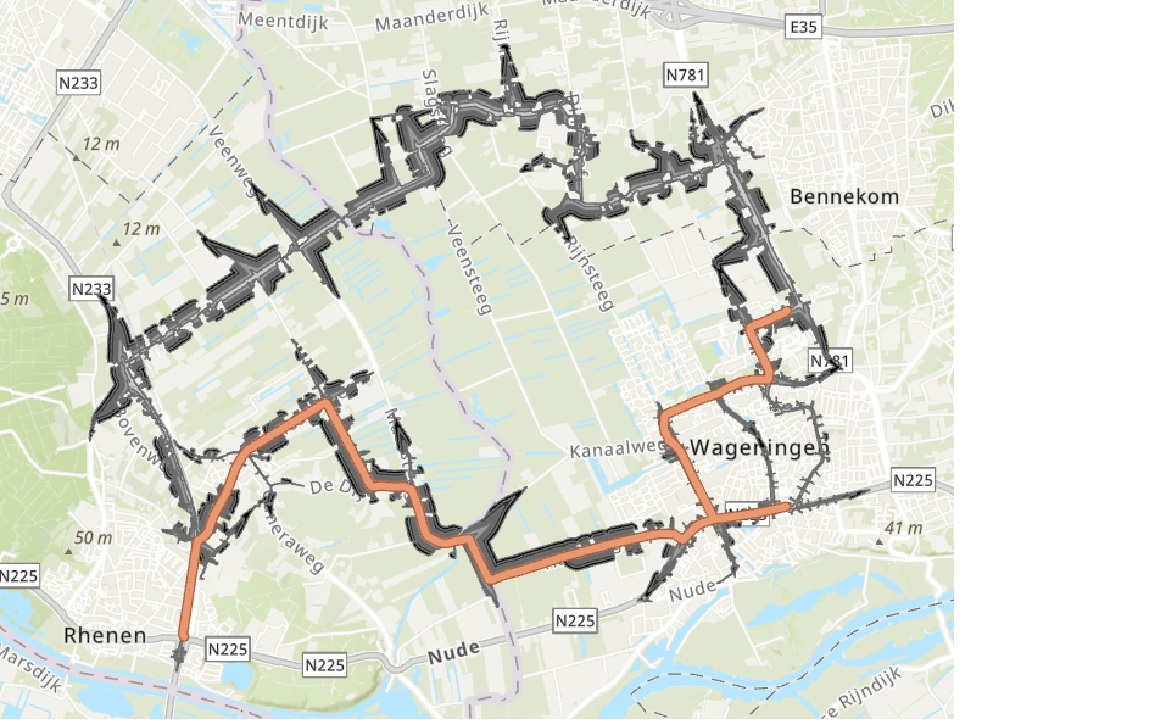
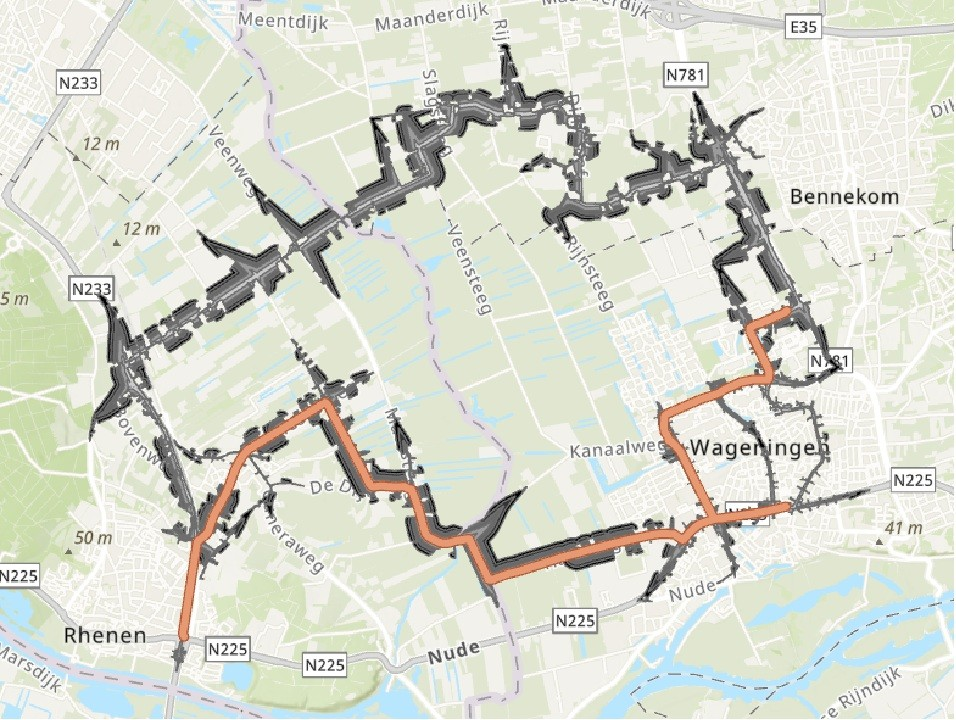
changed the overal story of me to make it more personal and cute the side of an image off for cleaner representation

diff --git a/index.html b/index.html
@@ -355,8 +355,7 @@
             <section class="box">
                 <h2>Brief Abstract / About Me</h2>
                 <p class="about-text">
-                    Trying to keep overseight in complex procedures and look for effictient opertunities.
-                    This combined with my social nature. I get energy from meeting people.
+                    I am a curious and analytical person who gets a lot of energy from working with people and loves untangling complex problems. Keeping overview in messy situations and spotting efficient opportunities is something that comes naturally to me. With a background in Human Geography and a growing expertise in GIS, I am drawn to how people and their environments shape each other. My real drive is visualising and simplifying complicated things, especially using machine learning to find patterns in spatial data. I like making abstract information accessible in a way that actually helps people.
                 </p>
             </section>
 
@@ -376,7 +375,8 @@
                     <div class="timeline-item">
                         <div class="time-period">2022 — 2025</div>
                         <div class="timeline-title">BSc Human Geography and Spatial Planning</div>
-                        <div class="timeline-institution">Utrecht Univeristy, Utrecht</div>
+                        <div class="timeline-institution">Utrecht University, Utrecht</div>
+                        <div style="font-size:0.85rem; color:#94a3b8; margin-top:4px;">Minor: European Governance</div>
                     </div>
 
                     <!-- Previous Degree/Milestone -->
@@ -440,7 +440,7 @@
                 <h2>Core Expertise</h2>
                 
                 <div class="skill-group">
-                    <h3>Technical Engine</h3>
+                    <h3>Technical skills</h3>
                     <div class="skill-badges">
                         <span class="badge">Python</span>
                         <span class="badge">R</span>
@@ -452,30 +452,65 @@
                 </div>
 
                 <div class="skill-group">
-                    <h3>Academic</h3>
+                    <h3>Academic skills</h3>
                     <div class="skill-badges">
                         <span class="badge">Data science/analytics</span>
                         <span class="badge">Machine learning / Artificial intelligence</span>
-                        <span class="badge">Spatial anlaysis</span>
-                        <span class="badge">Remote sensing classification</span>
+                        <span class="badge">Spatial analysis</span>
+                        <span class="badge">Remote sensing</span>
+                        <span class="badge">Economic and Human Geography</span>
+
+                    </div>
+                </div>
+
+                <div class="skill-group">
+                    <h3>Python packages</h3>
+                    <div class="skill-badges">
+                        <span class="badge">GeoPandas</span>
+                        <span class="badge">Shapely</span>
+                        <span class="badge">Rasterio</span>
+                        <span class="badge">Scikit-Learn</span>
+                        <span class="badge">TensorFlow</span>
+                        <span class="badge">PyTorch</span>
+                        <span class="badge">Keras</span>
+                    </div>
+                </div>
+
+                <div class="skill-group">
+                    <h3>R packages</h3>
+                    <div class="skill-badges">
+                        <span class="badge">sf</span>
+                        <span class="badge">terra</span>
+                        <span class="badge">raster</span>
+                        <span class="badge">tmap</span>
+                        <span class="badge">ggplot2</span>
+                        <span class="badge">sp</span>
                     </div>
                 </div>
             </section>
 
             <!-- Experience Checklist Box -->
             <section class="box">
-                <h2>Academic Roles</h2>
+                <h2>Experience</h2>
                 <ul class="sidebar-list">
-                    <li><strong>Student</strong><br><small style="color:#64748b;">University Lab Location (2025)</small></li>
+                    <li><strong>Intern Neighbourhood Manager</strong><br>
+                        <small style="color:#64748b;">Municipality of Tilburg (Sep 2024 – Feb 2025)</small><br>
+                        <small style="color:#64748b;">Visualised socio-economic problems of local neighbourhoods to support policy decisions.</small></li>
+                    <li><strong>Service Employee</strong><br>
+                        <small style="color:#64748b;">Albert Heijn (2020 – present)</small><br>
+                        <small style="color:#64748b;">Consistently delivering reliable, customer-focused service over five years alongside full-time studies, demonstrating strong work ethic and dedication.</small></li>
                 </ul>
             </section>
 
-            <!-- Certification Box -->
+            <!-- Soft Skills Box -->
             <section class="box">
-                <h2>Accreditations</h2>
+                <h2>Soft Skills</h2>
                 <ul class="sidebar-list">
-                    <li>-</li>
-                    <li>-</li>
+                    <li>Adaptive</li>
+                    <li>Eager to learn</li>
+                    <li>People-oriented</li>
+                    <li>Socially skilled</li>
+                    <li>Stress resistant</li>
                 </ul>
             </section>
 
@@ -483,7 +518,7 @@
             <section class="box">
                 <h2>Network Channels</h2>
                 <div class="contact-links">
-                    <a href="mailto:[email redacted]" class="contact-link-item">📧 niek.wels@live</a>
+                    <a href="mailto:[email redacted]" class="contact-link-item">📧 [email redacted]</a>
                     <a href="https://linkedin.com/in/niekwels" target="_blank" class="contact-link-item">🔗 linkedin.com/in/NiekWels</a>
                     <a href="Images/CV_Niek_Wels.pdf" target="_blank" class="contact-link-item">📄 Download CV</a>
                     <a href="https://github.com/Niek-Wels" target="_blank" class="contact-link-item">💻 github.com/niek-wels</a>